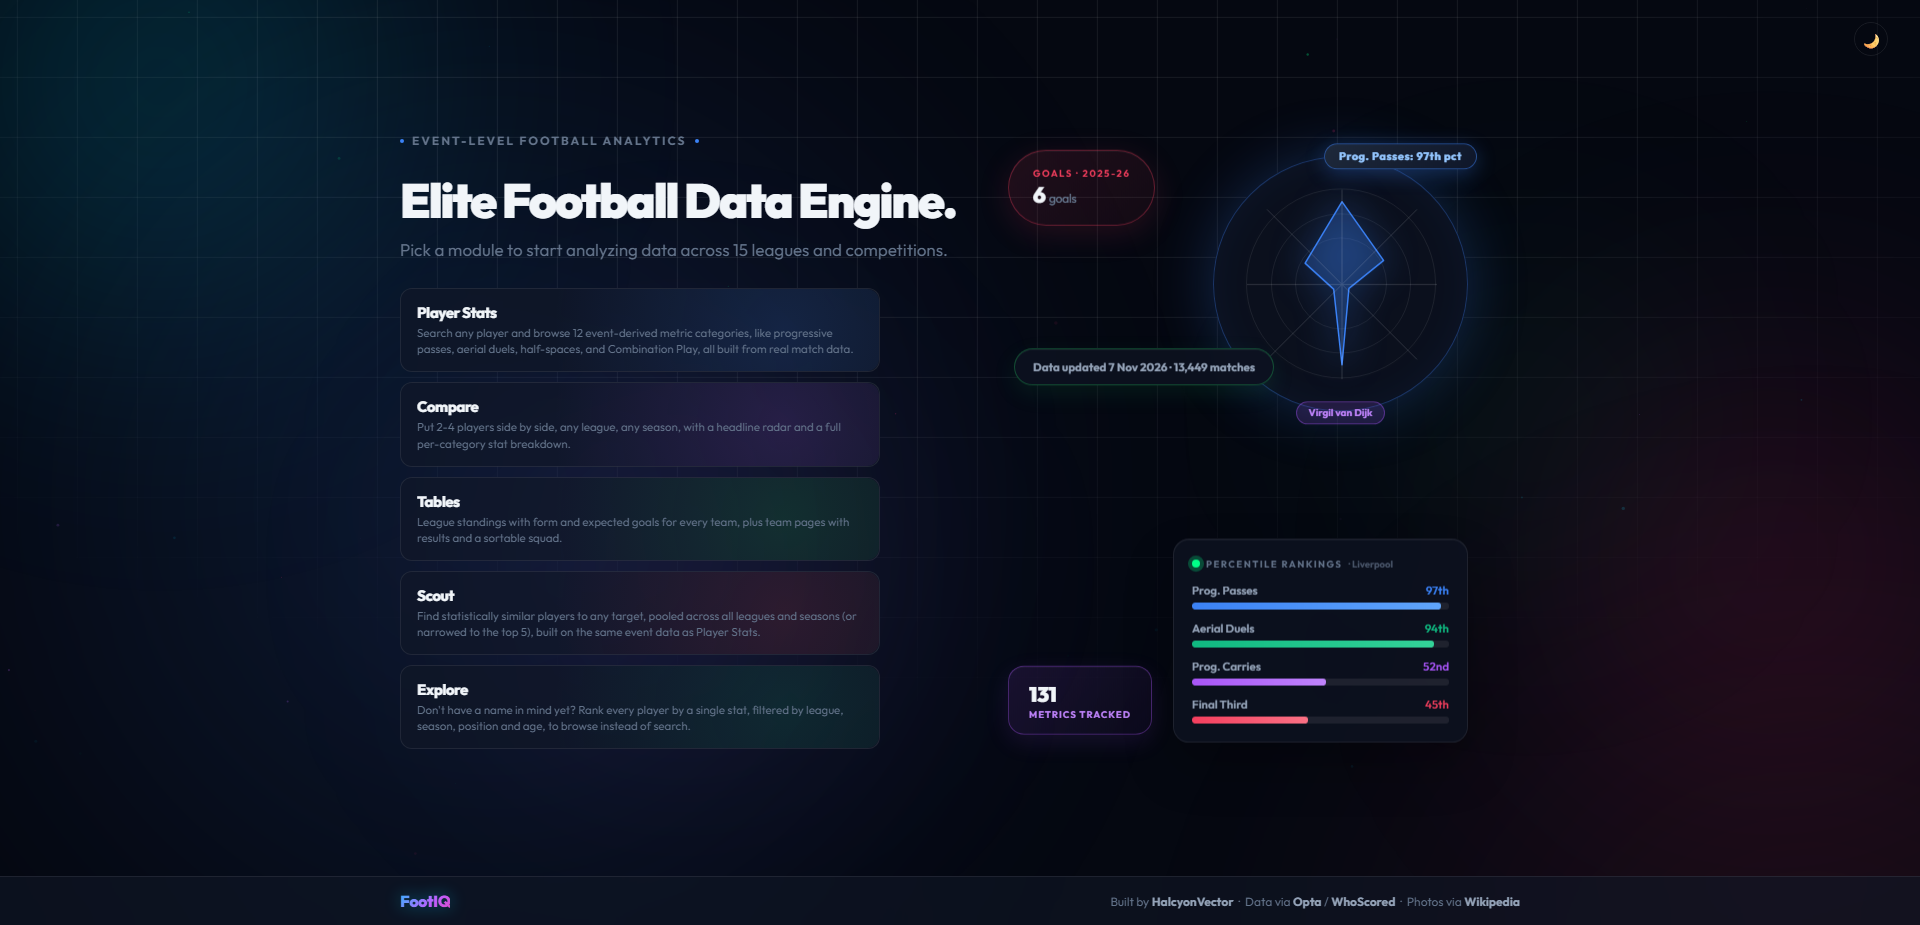
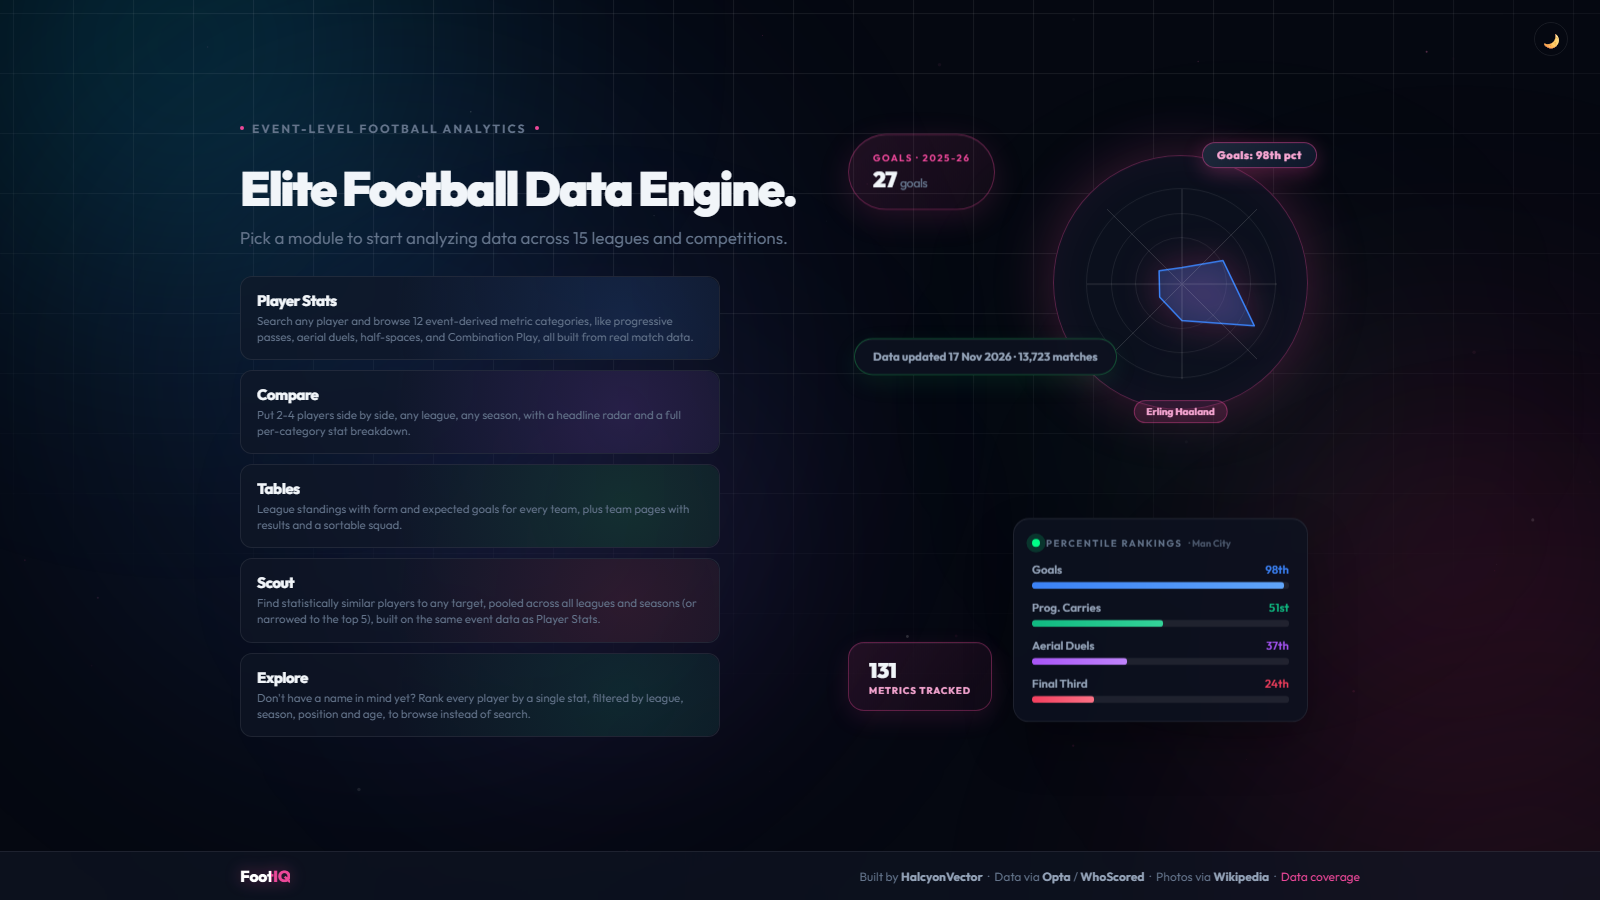
README: current counts, findings, API and future features, new screenshots; stats strip lays out as a 3 + 2 grid on phones

diff --git a/site/static/css/style.css b/site/static/css/style.css
@@ -2034,3 +2034,13 @@ footer {
 /* Numbers in the stats strip: plain white */
 .stat-num{background:none;-webkit-background-clip:border-box;background-clip:border-box;color:var(--text);-webkit-text-fill-color:var(--text);
   text-shadow:none}
+
+/* Stats strip on phones: a tidy 3 + 2 grid (the vertical dividers only make sense in one row) */
+@media (max-width:640px){
+  .stats-strip{display:grid;grid-template-columns:repeat(6,1fr);row-gap:14px;padding:18px 10px;align-items:start}
+  .stats-strip .stat-divider{display:none}
+  .stats-strip .stat-item{grid-column:span 2;min-width:0;padding:4px 6px}
+  .stats-strip .stat-item:nth-child(7){grid-column:2 / span 2}
+  .stats-strip .stat-num{font-size:28px}
+  .stats-strip .stat-lbl{white-space:normal;text-align:center;line-height:1.3}
+}

diff --git a/static/css/style.css b/static/css/style.css
@@ -2034,3 +2034,13 @@ footer {
 /* Numbers in the stats strip: plain white */
 .stat-num{background:none;-webkit-background-clip:border-box;background-clip:border-box;color:var(--text);-webkit-text-fill-color:var(--text);
   text-shadow:none}
+
+/* Stats strip on phones: a tidy 3 + 2 grid (the vertical dividers only make sense in one row) */
+@media (max-width:640px){
+  .stats-strip{display:grid;grid-template-columns:repeat(6,1fr);row-gap:14px;padding:18px 10px;align-items:start}
+  .stats-strip .stat-divider{display:none}
+  .stats-strip .stat-item{grid-column:span 2;min-width:0;padding:4px 6px}
+  .stats-strip .stat-item:nth-child(7){grid-column:2 / span 2}
+  .stats-strip .stat-num{font-size:28px}
+  .stats-strip .stat-lbl{white-space:normal;text-align:center;line-height:1.3}
+}

diff --git a/README.md b/README.md
@@ -29,6 +29,7 @@ What the data showed, and the problems found while building it:
 - **Minimum-sample gates hid a regular starter's profile early in a season.** A fixed "at least 10 aerial duels" gate is sensible over 38 games and wrong after 9. Bruno Fernandes had played over 700 minutes in 2026-27 and still showed dashes for open-play aerial win rate. The gates now scale with the share of the season played (never below 3 attempts), the percentile cohort's minutes floor relaxes from 450 to a minimum of 270, and the open-play aerial win rate now reads 25.0% (16th percentile). Finished seasons keep the full gates and are unchanged.
 - **The weekly update ran for weeks without fetching anything.** The scheduler passed display names where the scraper needed the source's own league keys, every task crashed before its first request, and the error handling swallowed each crash and logged "No failures". Every weekly rebuild was quietly re-reading the cache from earlier manual scrapes. Fixed, and the scrape now reports any competition whose schedule could not be fetched instead of looking clean.
 - **A health check reported 60 to 79% of current-season matches as unusable.** The cache holds a placeholder for every scheduled fixture, so a season a quarter played looked three quarters broken. Unplayed fixtures are now counted separately, which leaves the real gaps visible: finished seasons such as the Belgian Pro League 2025-26 (about 23% of matches without event data) and Scottish Premiership 2025-26 (about 13%).
+- **A half-played Champions League was listed as finished, with nobody ranked.** Season progress was only measured for round-robin leagues, and every cup was treated as 100% done. The 2026-27 Champions League and Europa League were 72 matches into a 189-match edition, so the full 450-minute floor applied and not one player cleared it. Progress for those two cups is now matches played against a full edition (38% at the time), which brings 248 and 222 players into the rankings.
 - **A competition with no data at all was found by hand, then made a check.** Europa Conference League returned null event data for all 447 matches, a gap on the source's side, so it is excluded and the health check now looks for the same symptom after every scrape.
 
 ---
@@ -37,7 +38,7 @@ What the data showed, and the problems found while building it:
 
 ### Player Page
 
-- Search across 15 competitions; every metric is a percentile against same-position players in the same competition and season.
+- Search across 15 competitions; every metric is a percentile against same-position players in the same season. The season pickers open on the newest season that is mostly played (2025-26 at the moment), and seasons still in progress are marked as such.
 - 12 Advanced Metrics tabs: Passing, Shooting and Footedness, Carrying, Half-Spaces, Tempo Control, Decision Making, Final Third, Aerial Duels, Defending, Hold-Up Play, Post-Recovery and Link-Up. Goalkeepers get a Goalkeeping tab instead.
 - A "Profile at a glance" radar of the player's average percentile in every category, above the tabs.
 - A switch for who the percentiles are ranked against: every competition that season (the default), the Top 5 leagues together (Premier League, La Liga, Serie A, Bundesliga, Ligue 1; offered to players in those leagues), or only the player's own competition. The bars, radar, strengths, composite rating and per-tab charts all follow it.
@@ -87,8 +88,9 @@ What the data showed, and the problems found while building it:
 |--------|------|-------------------|
 | [WhoScored](https://www.whoscored.com/) match centre (Opta event data) | Match-event JSON, scraped | Every pass, carry, duel, tackle and shot with pitch coordinates and Opta qualifiers, plus line-ups, substitutions and ratings |
 | [Wikipedia REST API](https://en.wikipedia.org/api/rest_v1/) | JSON | Player photos, cached locally |
+| [API-Football](https://www.api-football.com/) media | Images | League logos |
 
-Coverage is Premier League, La Liga, Serie A, Bundesliga, Ligue 1, Championship, Eredivisie, Primeira Liga, Belgian Pro League, Super Lig, Scottish Premiership, Champions League and Europa League for 2023-24 onwards (2026-27 in progress), plus the 2022 World Cup and Euro 2024 as one-off entries. That is 13,449 matches and 35,628 player-season rows. Europa Conference League was scraped in full and excluded because the source returned no usable events for any of its 447 matches.
+Coverage is Premier League, La Liga, Serie A, Bundesliga, Ligue 1, Championship, Eredivisie, Primeira Liga, Belgian Pro League, Super Lig, Scottish Premiership, Champions League and Europa League for 2023-24 onwards (2026-27 in progress), plus the 2022 World Cup and Euro 2024 as one-off entries. That is 13,723 matches and 37,572 player-season rows. Europa Conference League was scraped in full and excluded because the source returned no usable events for any of its 447 matches.
 
 **Cleaning and joining.** Raw match JSON is parsed into per-player events. Minutes are derived from line-ups and substitutions (stoppage-time aware), carries are reconstructed from gaps between a player's own touches, and open-play, set-piece, assist and cross events are separated using Opta qualifier codes. Events are aggregated per player-season into per-90 and percentage metrics, then percentile-ranked within position-group cohorts (attacker, midfielder, defender, goalkeeper) that must clear a minutes floor. Progressive passes and carries use the published three-tier yard rule; xG comes from a logistic model fitted on the dataset's own shots.
 
@@ -228,6 +230,8 @@ FootIQ/
 | `/api/compare-stats` | POST | Side-by-side table and radar |
 | `/api/scout-similar` | POST | Ranked statistical twins |
 | `/api/explore` | POST | Ranked player-seasons for one metric |
+| `/api/explore-scatter`, `/api/explore-quadrant` | POST | Two metrics, or a curated pair of indexes, for the whole cohort |
+| `/api/coverage`, `/api/hub` | GET | The coverage table and the home page's facts |
 | `/api/league-table`, `/api/team` | GET | Standings, results and squad |
 | `/api/health` | GET | Warm-up state and memory use |
 
@@ -240,7 +244,7 @@ pip install pytest
 python -m pytest tests/
 ```
 
-112 tests cover the metric math and the data handling around it: progressive-action geometry, position-group classification, the Composite Rating's power mean, the xG model and shot data, league tables, chart specs, the player search ranking, the link-up lookup, the season-progress gates (including that every category module that uses them imports them), partition-preserving writes and the dataset release logic. The scraper's schedule retries and the health check's treatment of unplayed fixtures are tested against simulated failures. Two tests are skipped on machines without the raw data.
+145 tests cover the metric math and the data handling around it: progressive-action geometry, position-group classification, the Composite Rating's power mean, the xG model and shot data, league tables, chart specs, the player search ranking, the link-up lookup, the season-progress gates (including the European cups and that every category module that uses them imports them), the quadrant indexes, the Top 5 and percentile-scope filters, Scout's season window, the default season, partition-preserving writes and the dataset release logic. The scraper's schedule retries and the health check's treatment of unplayed fixtures are tested against simulated failures. Two tests are skipped on machines without the raw data.
 
 ---
 
@@ -248,7 +252,7 @@ python -m pytest tests/
 
 - **The data is not mine to redistribute.** Events are scraped from a public site and kept out of the repository, so the project is for analysis and learning, and a copy of it needs its own scrape or a copy of the dataset release.
 - **Single-season percentiles on rate metrics are noisy.** Tackle success is almost unrelated from one season to the next (r = 0.09). Gates and the early-season chip reduce the problem, they do not remove it.
-- **In-progress seasons are approximate.** Season progress is estimated from matches played and teams in the competition, the gates are relaxed in proportion, and the cohort is smaller, so percentiles move more week to week.
+- **In-progress seasons are approximate.** Season progress is estimated from matches played and teams in the competition (for the Champions League and Europa League, against a full 189-match edition), the gates are relaxed in proportion, and the cohort is smaller, so percentiles move more week to week.
 - **Four position groups only.** A wing-back and a centre-back share a cohort, and a false nine and a target man share another.
 - **Events, not tracking.** There is no off-ball movement, pressing intensity from positions or player speed, only what the event feed records.
 - **xG is a home-grown model**, fitted on the dataset's own shots with no goalkeeper position or defender pressure, so it will not match Opta's or other providers' figures.
@@ -261,8 +265,11 @@ python -m pytest tests/
 ## Suggested Future Features
 
 - **A metric glossary** with what each number measures, how it is computed and its minimum sample, shown from the stat itself.
-- **Cohort choice:** rank a player against their own league or against every league.
-- **Match-by-match trends for any metric**, not only the match rating.
+- **Form over the last 5 and 10 matches** for the key metrics, so a player's trend within a season shows, not only the season average.
+- **Team style pages:** pressing intensity (passes allowed per defensive action), directness, where each team progresses the ball, and a pass network.
+- **Age curves:** the typical value of a metric at each age by position, with a player's own seasons drawn on top.
+- **A methodology page** in the app with the validation against WhoScored (for example shots per 90 correlate at 0.98, the composite rating at about 0.7 for attackers) and how the xG model was fitted.
+- **A watchlist** kept in the browser, filled from Scout and Explore and opened straight into Compare.
 
 ---
 
